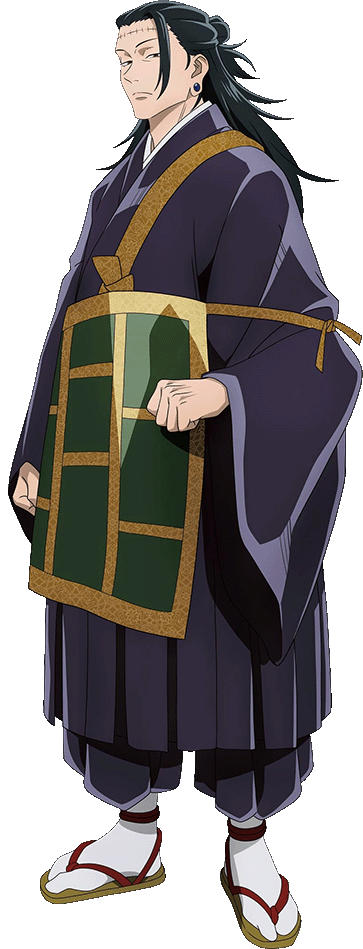
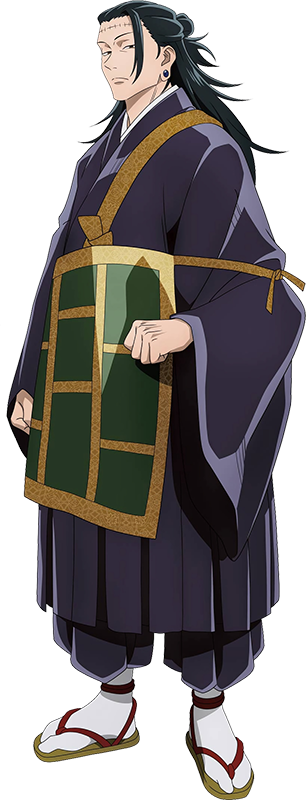
In this commit, I have edited some of the images
In this commit, I have edited the size of some images, though they don't seem to be responding in a way I would like.

diff --git a/css/main.css b/css/main.css
@@ -111,11 +111,19 @@ header {
 }
 
 #lightbox1 {
-    background-image: url(../images/Cap_LB_Bg.png);
+    background-image: url(../images/full_mahito_css_styling.png);
+}
+
+#lightbox2 {
+    background-image: url(../images/full_sukuna_css_styling.png)
 }
 
 #lightbox3 {
-    background-image: url(../images/Thor_LB_Bg.png)
+    background-image: url(../images/full_kenjaku_css_styling.png)
+}
+
+#lightbox4 {
+    background-image: url(../images/full_geto_css_styling.png)
 }
 
 .lightbox-close {

diff --git a/index.html b/index.html
@@ -3,11 +3,11 @@
 <head>
     <meta charset="UTF-8">   
     <link rel="stylesheet" href="css/main.css">   
-    <title>Marvel Character Build</title>
+    <title>Jujutsu Kaisen Villains</title>
 </head>
 <body>
     <header>
-        <h1 class="hidden">All about the team</h1>
+        <h1 class="hidden">All about the villains</h1>
         <img src="images/Jujutsu_Kaisen_(Japanese)_logo.svg" alt="Jujutsu Kaisen Logo" id="main-logo">
     </header>
     <main>
